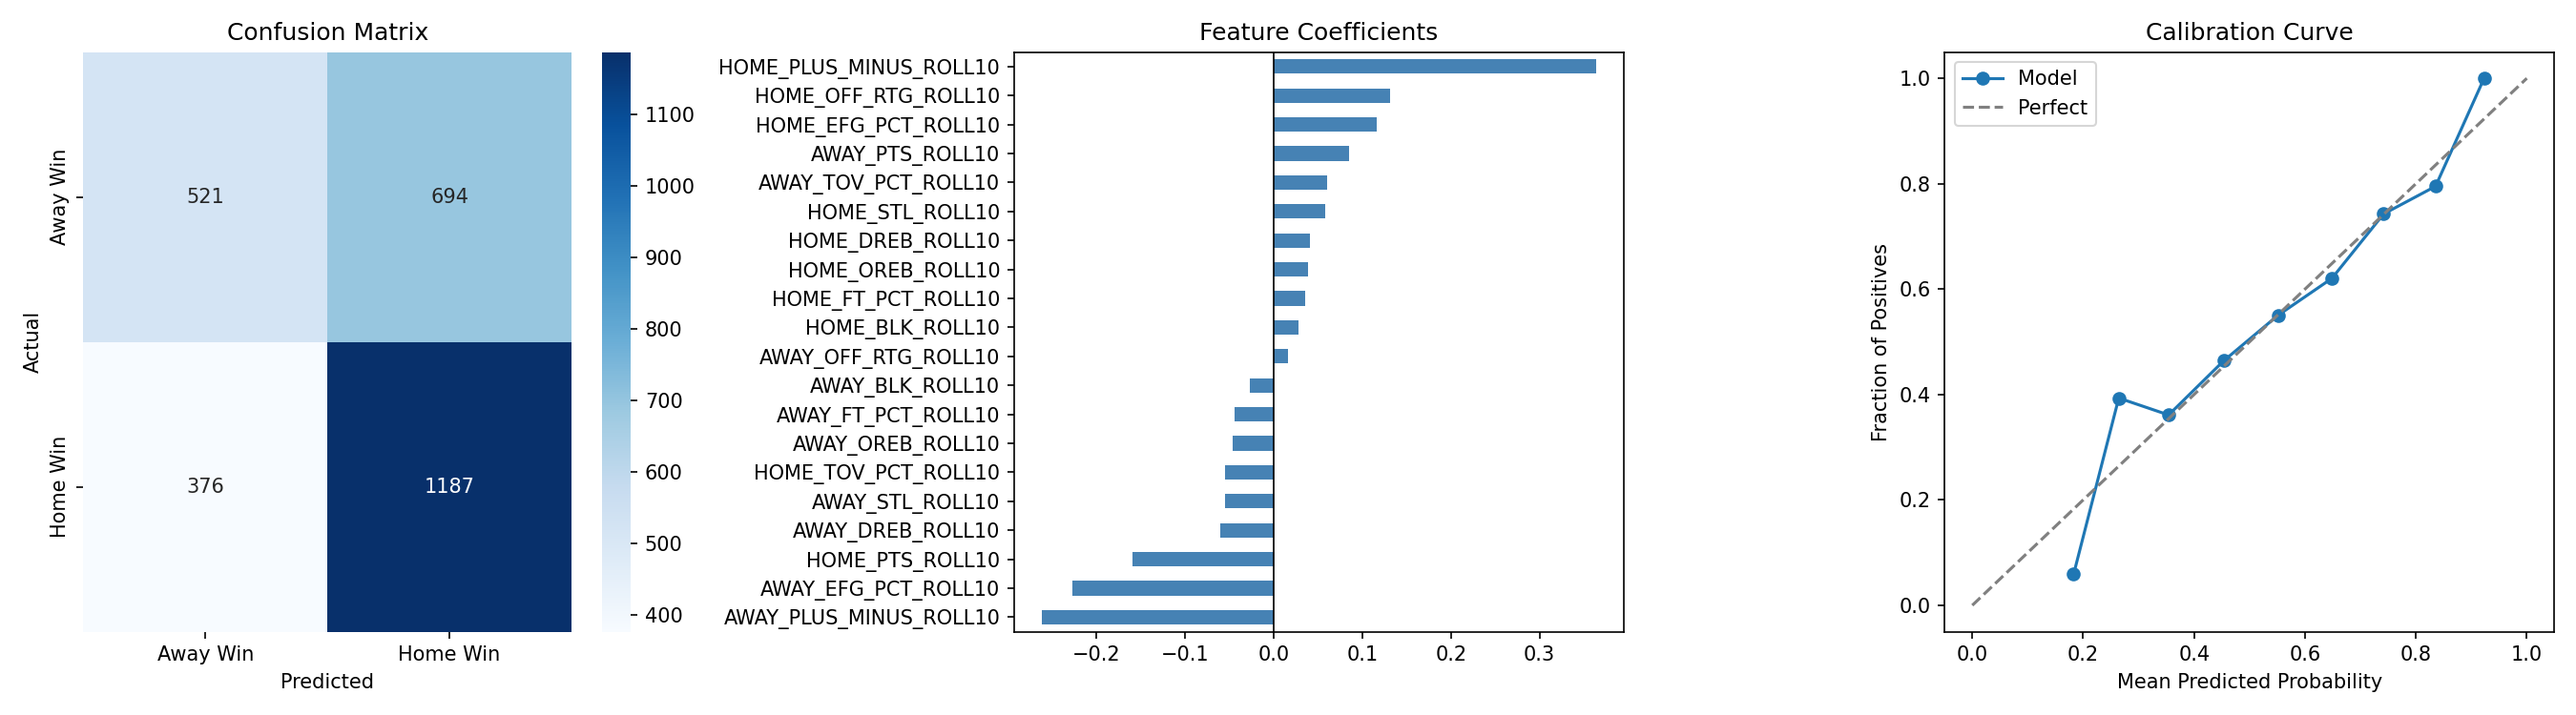
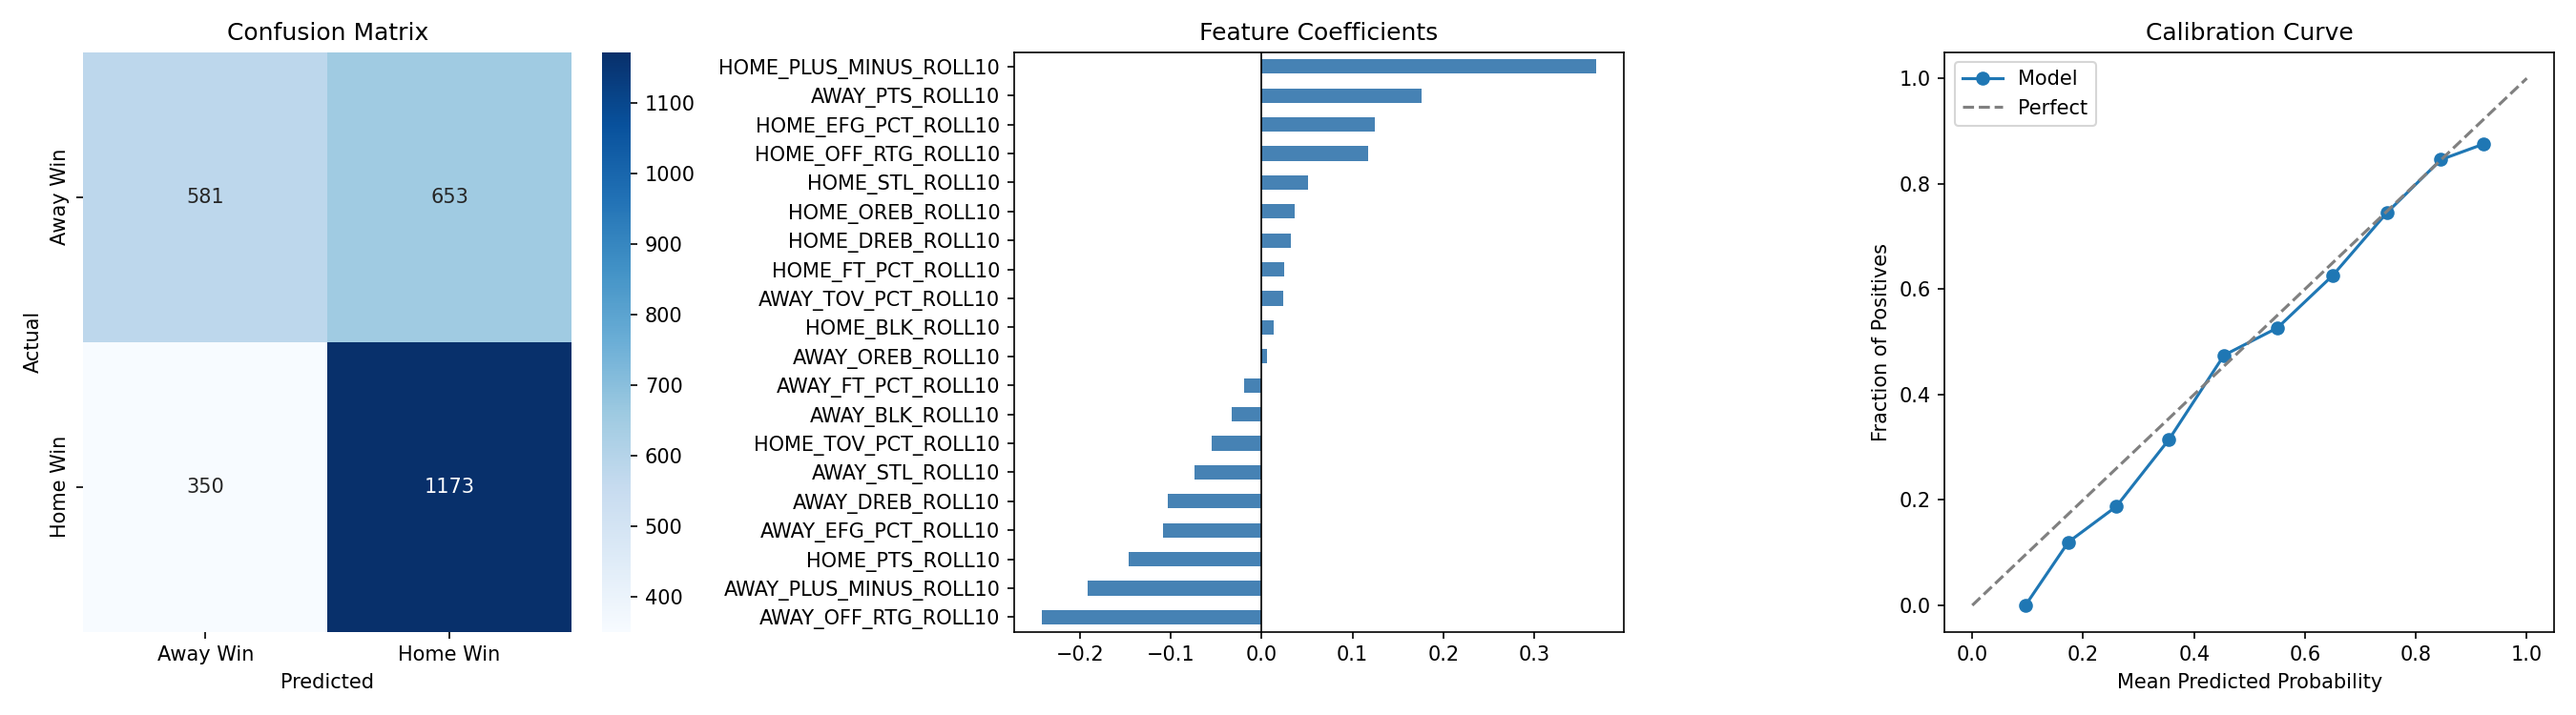
Implemented predict.py, updated to 2025-26 season data(most recent)

diff --git a/src/predict.py b/src/predict.py
@@ -1,0 +1,87 @@
+import pandas as pd
+import numpy as np
+import joblib
+
+from clean_data import load_raw, add_basic_features, add_rolling_features
+
+FEATURE_COLS = [
+    "HOME_OFF_RTG_ROLL10",  "AWAY_OFF_RTG_ROLL10",
+    "HOME_EFG_PCT_ROLL10",  "AWAY_EFG_PCT_ROLL10",
+    "HOME_TOV_PCT_ROLL10",  "AWAY_TOV_PCT_ROLL10",
+    "HOME_FT_PCT_ROLL10",   "AWAY_FT_PCT_ROLL10",
+    "HOME_PTS_ROLL10",      "AWAY_PTS_ROLL10",
+    "HOME_OREB_ROLL10",     "AWAY_OREB_ROLL10",
+    "HOME_DREB_ROLL10",     "AWAY_DREB_ROLL10",
+    "HOME_STL_ROLL10",      "AWAY_STL_ROLL10",
+    "HOME_BLK_ROLL10",      "AWAY_BLK_ROLL10",
+    "HOME_PLUS_MINUS_ROLL10", "AWAY_PLUS_MINUS_ROLL10",
+]
+
+
+def get_team_rolling_stats(df: pd.DataFrame, team_abbr: str) -> pd.Series:
+    team_df = df[df["TEAM_ABBREVIATION"] == team_abbr].sort_values("GAME_DATE")
+
+    if team_df.empty:
+        raise ValueError(f"Team '{team_abbr}' not found. Check the abbreviation.")
+
+    latest = team_df.iloc[-1]  # most recent game row
+
+    stats = {
+        "OFF_RTG_ROLL10":    latest.get("OFF_RTG_ROLL10"),
+        "EFG_PCT_ROLL10":    latest.get("EFG_PCT_ROLL10"),
+        "TOV_PCT_ROLL10":    latest.get("TOV_PCT_ROLL10"),
+        "FT_PCT_ROLL10":     latest.get("FT_PCT_ROLL10"),
+        "PTS_ROLL10":        latest.get("PTS_ROLL10"),
+        "OREB_ROLL10":       latest.get("OREB_ROLL10"),
+        "DREB_ROLL10":       latest.get("DREB_ROLL10"),
+        "STL_ROLL10":        latest.get("STL_ROLL10"),
+        "BLK_ROLL10":        latest.get("BLK_ROLL10"),
+        "PLUS_MINUS_ROLL10": latest.get("PLUS_MINUS_ROLL10"),
+    }
+    return pd.Series(stats)
+
+
+def build_prediction_row(home_stats: pd.Series, away_stats: pd.Series) -> pd.DataFrame:
+    row = {}
+    for key in home_stats.index:
+        row[f"HOME_{key}"] = home_stats[key]
+        row[f"AWAY_{key}"] = away_stats[key]
+    return pd.DataFrame([row])[FEATURE_COLS]
+
+
+def predict_game(home_team: str, away_team: str):
+    model  = joblib.load("models/logreg_model.pkl")
+    scaler = joblib.load("models/scaler.pkl")
+    df = load_raw()
+    df = add_basic_features(df)
+    df = add_rolling_features(df)
+    home_stats = get_team_rolling_stats(df, home_team)
+    away_stats = get_team_rolling_stats(df, away_team)
+    X = build_prediction_row(home_stats, away_stats)
+    X_scaled = scaler.transform(X)
+    prob = model.predict_proba(X_scaled)[0]
+    away_prob = prob[0]
+    home_prob = prob[1]
+
+    winner = home_team if home_prob > away_prob else away_team
+
+    print(f"\n{'='*40}")
+    print(f"  {home_team} (home) vs {away_team} (away)")
+    print(f"{'='*40}")
+    print(f"  {home_team} win probability:  {home_prob:.1%}")
+    print(f"  {away_team} win probability:  {away_prob:.1%}")
+    print(f"{'='*40}")
+    print(f"  Predicted winner: {winner}")
+    print(f"{'='*40}\n")
+
+    return home_prob, away_prob
+
+
+if __name__ == "__main__":
+    import sys
+    if len(sys.argv) == 3:
+        # Run from terminal: python src/predict.py BOS GSW
+        predict_game(sys.argv[1], sys.argv[2])
+    else:
+        # Default example
+        predict_game("BOS", "GSW")

diff --git a/src/train_model.py b/src/train_model.py
@@ -19,8 +19,8 @@ FEATURE_COLS = ["HOME_OFF_RTG_ROLL10",  "AWAY_OFF_RTG_ROLL10",
     "HOME_BLK_ROLL10",      "AWAY_BLK_ROLL10",
     "HOME_PLUS_MINUS_ROLL10", "AWAY_PLUS_MINUS_ROLL10",]
 
-TRAIN_SEASONS = ["2014-15", "2015-16", "2016-17", "2017-18", "2018-19", "2019-20", "2020-21", "2021-22"]
-TEST_SEASONS = ["2022-23", "2023-24"]
+TRAIN_SEASONS = ["2014-15", "2015-16", "2016-17", "2017-18", "2018-19", "2019-20", "2020-21", "2021-22", "2022-23", "2023-24"]
+TEST_SEASONS = ["2024-25", "2025-26"]
 
 def load_features(path: str = "data/games_features.csv") -> pd.DataFrame:
     df = pd.read_csv(path)

diff --git a/src/fetch_data.py b/src/fetch_data.py
@@ -4,7 +4,8 @@ from nba_api.stats.endpoints import leaguegamefinder
 
 SEASONS = [
     "2014-15", "2015-16", "2016-17", "2017-18", "2018-19", 
-    "2019-20", "2020-21", "2021-22", "2022-23", "2023-24"
+    "2019-20", "2020-21", "2021-22", "2022-23", "2023-24",
+    "2024-25", "2025-26"
 ]
 
 def fetch_season(season: str) -> pd.DataFrame:
